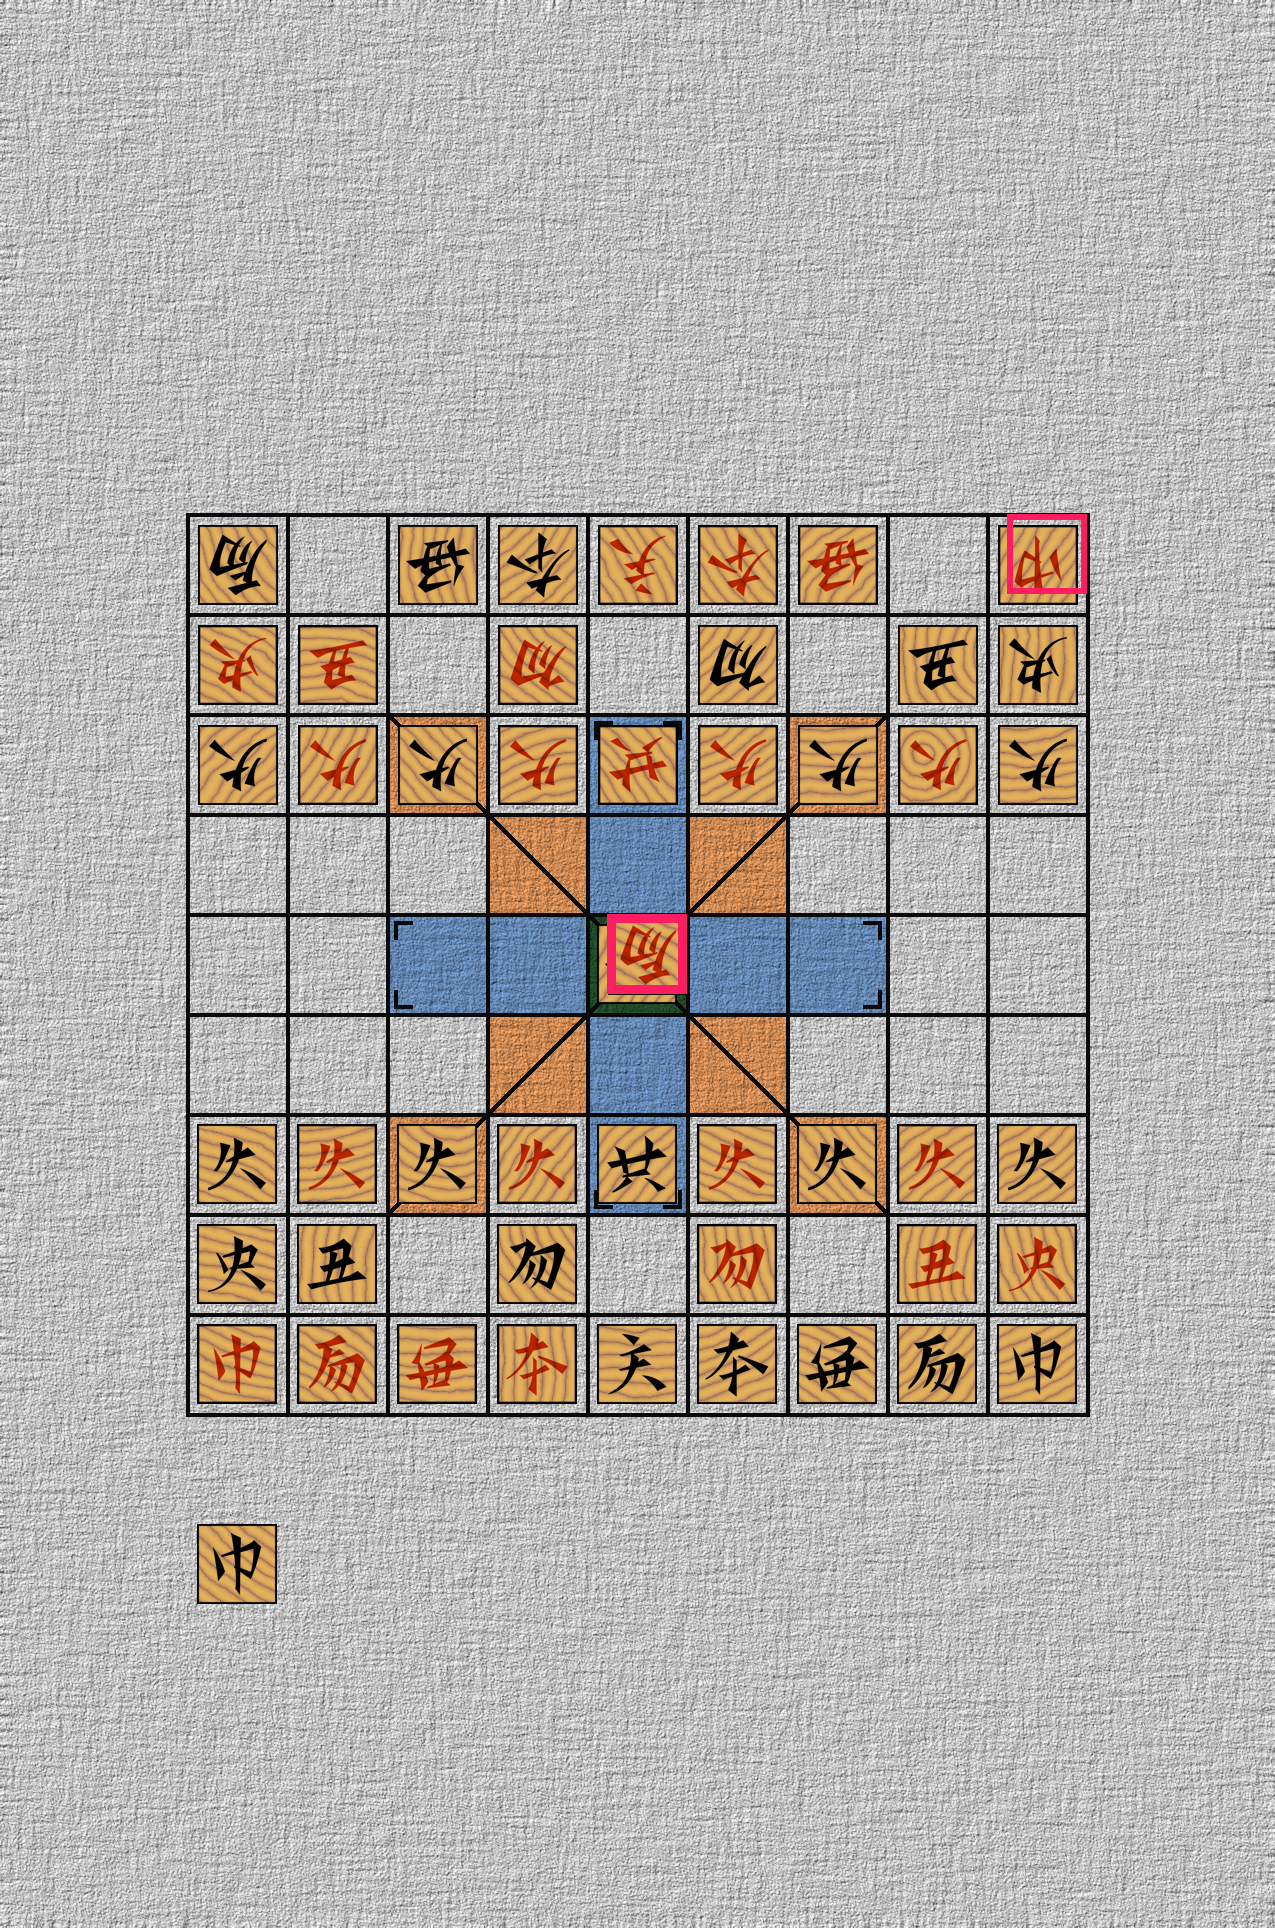
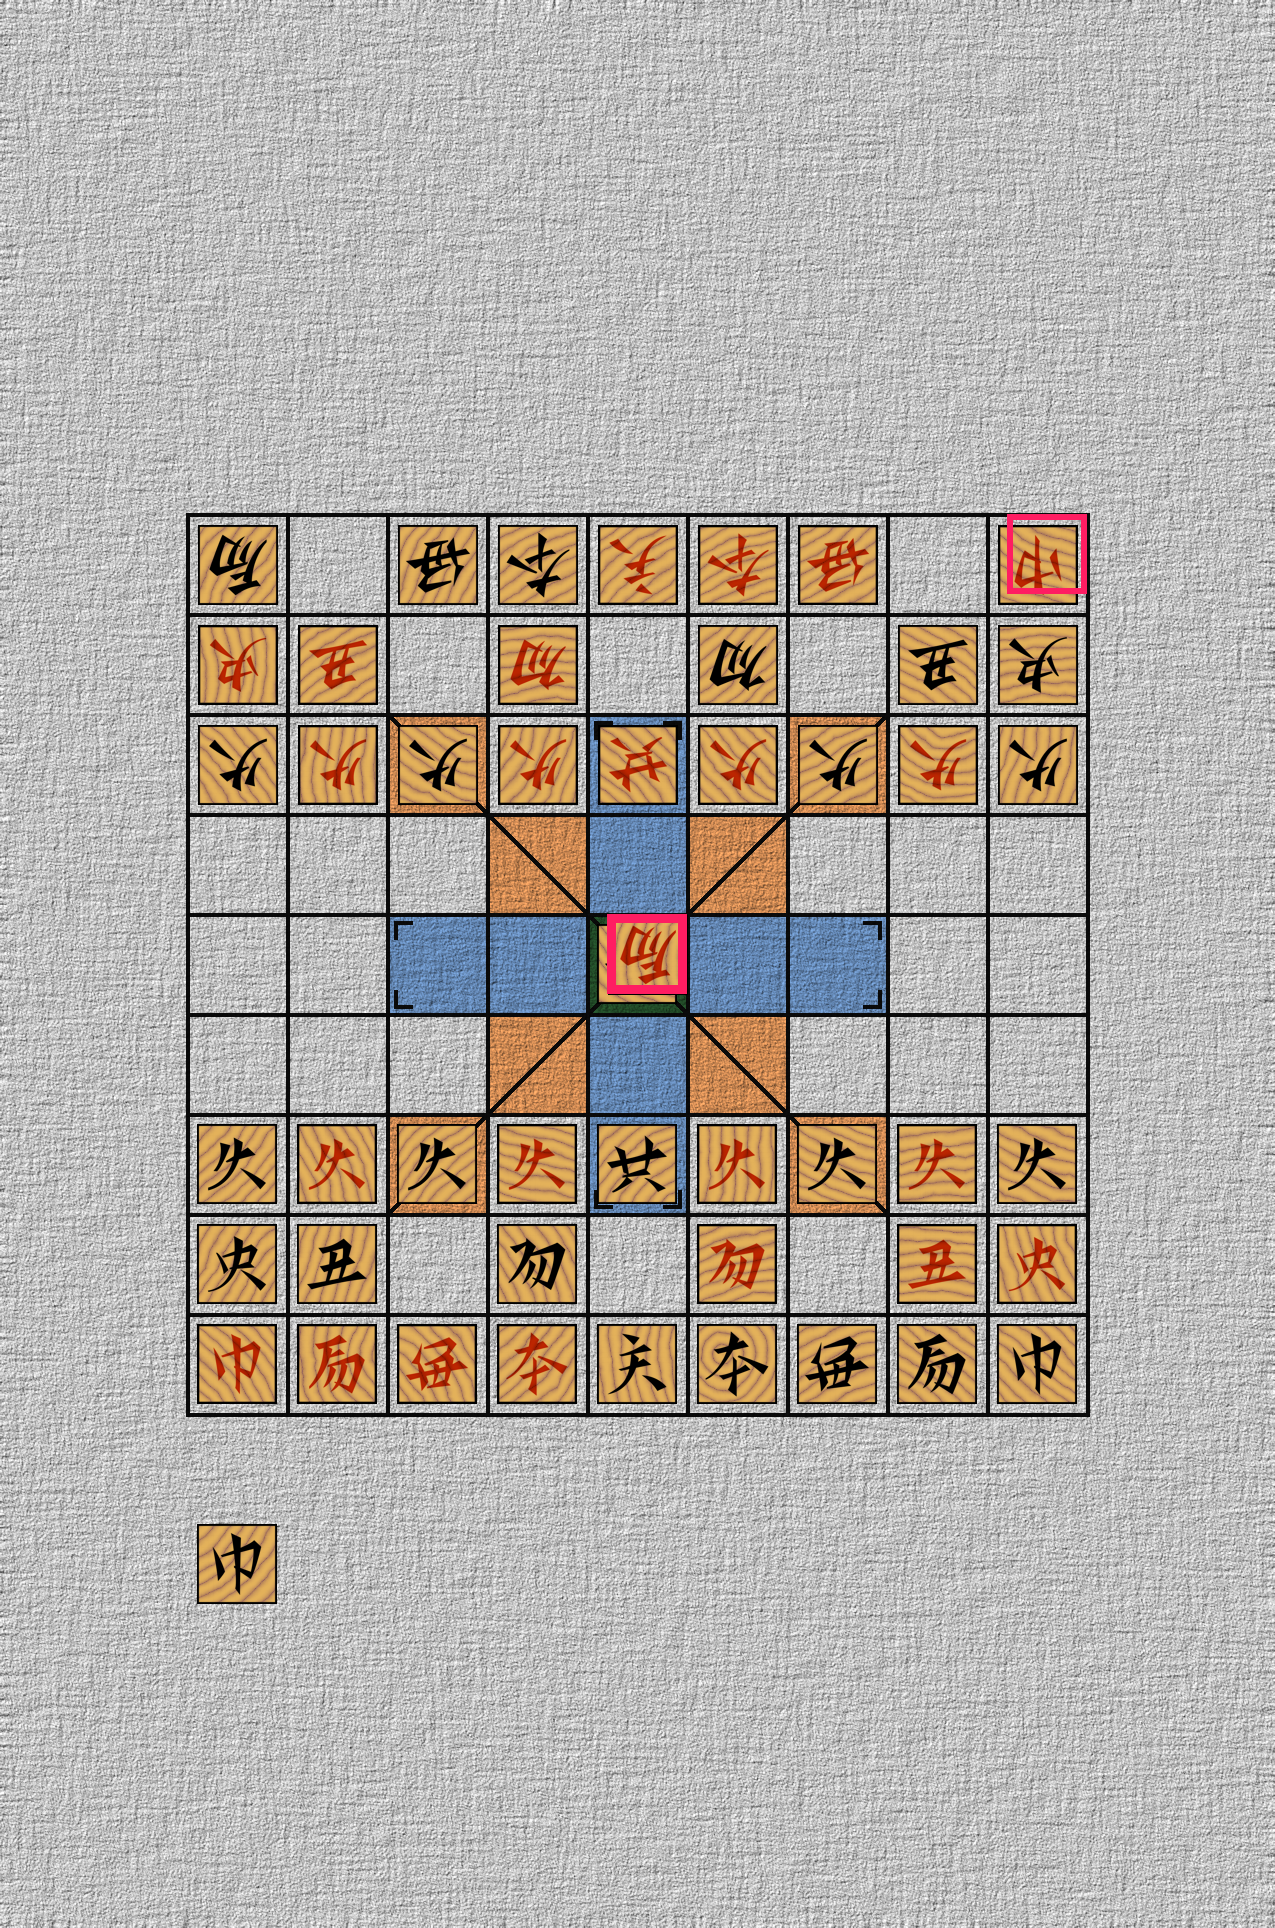
Move from hop1zuo1

diff --git a/src/field/mod.rs b/src/field/mod.rs
@@ -21,11 +21,13 @@ const RDAU: &'static [u8] = include_bytes!("../rdau.png_80x80.png");
 const RIO: &'static [u8] = include_bytes!("../rio.png_80x80.png");
 const RUAI: &'static [u8] = include_bytes!("../ruai.png_80x80.png");
 
+#[derive(PartialEq, Eq, Clone, Copy)]
 pub enum Color {
     Kok1,  // Red, 赤
     Huok2, // Black, 黒
 }
 
+#[derive(PartialEq, Eq, Clone, Copy)]
 pub enum Profession {
     Nuak1, // Vessel, 船, felkana
     Kauk2, // Pawn, 兵, elmer
@@ -183,6 +185,7 @@ pub enum OperationError {
     Tam2ToHop1Zuo1,
     TwoPiecesOnFlight,
     NoPieceOnFlight,
+    NoMatchingColorOrProfession,
 }
 
 fn get_horiz_offset_from_coord(coord: Coord, down_side: Side) -> i32 {
@@ -222,7 +225,11 @@ fn get_vert_offset_from_coord(coord: Coord, down_side: Side) -> i32 {
 }
 
 impl Field {
-    fn put_border_on_sub_image(&self, sub_image: &mut image::SubImage<&mut image::RgbImage>, weight: u32){
+    fn put_border_on_sub_image(
+        &self,
+        sub_image: &mut image::SubImage<&mut image::RgbImage>,
+        weight: u32,
+    ) {
         use crate::image::GenericImage;
         for x in 0..self.piece_dimension {
             for y in 0..self.piece_dimension {
@@ -251,6 +258,51 @@ impl Field {
         self.focus = HashMap::new();
         self.ia_side_focus_index = None;
         self.a_side_focus_index = None;
+    }
+
+    pub fn from_hop1zuo1(
+        &mut self,
+        coord: Coord,
+        side: Side,
+        color: Color,
+        profession: Profession,
+    ) -> Result<(), OperationError> {
+        self.debug_assert_49_piece();
+
+        if self.field.contains_key(&coord) {
+            return Err(OperationError::MovingToNonEmptySquare);
+        }
+
+        self.delete_focus();
+
+        let nontam2piece = if side == Side::ASide {
+            let ind = self
+                .a_side_hand
+                .iter()
+                .position(|p| p.color == color && p.profession == profession)
+                .ok_or(OperationError::NoMatchingColorOrProfession)?;
+
+            self.a_side_focus_index = Some(self.a_side_hand.len() - 1);
+
+            self.a_side_hand.swap_remove(ind)
+        } else {
+            let ind = self
+                .ia_side_hand
+                .iter()
+                .position(|p| p.color == color && p.profession == profession)
+                .ok_or(OperationError::NoMatchingColorOrProfession)?;
+
+            self.ia_side_focus_index = Some(self.ia_side_hand.len() - 1);
+
+            self.ia_side_hand.swap_remove(ind)
+        };
+
+        self.field
+            .insert(coord, PieceOnField::NonTam2(nontam2piece, side));
+        self.focus.insert(coord, false);
+
+        self.debug_assert_49_piece();
+        Ok(())
     }
 
     pub fn to_opponent_hop1zuo1(&mut self, coord: Coord) -> Result<(), OperationError> {
@@ -575,7 +627,9 @@ impl Field {
         for (row, col) in self.focus.keys() {
             let horiz_offset = get_horiz_offset_from_coord((*row, *col), down_side);
             let vert_offset = get_vert_offset_from_coord((*row, *col), down_side);
-            if !self.focus[&(*row, *col)] /* not floating */ {
+            if !self.focus[&(*row, *col)]
+            /* not floating */
+            {
                 let mut sub_image = background.sub_image(
                     ((width / 2 - self.piece_dimension / 2) as i32
                         + self.square_dimension as i32 * horiz_offset) as u32,
@@ -596,7 +650,8 @@ impl Field {
                                 } else {
                                     -1
                                 }
-                            + self.square_dimension as i32 * horiz_offset) as u32,
+                            + self.square_dimension as i32 * horiz_offset)
+                            as u32,
                         ((height / 2 - self.piece_dimension / 2) as i32
                             + (self.square_dimension as i32 - self.piece_dimension as i32) / 2
                                 * if piece.physical_side() == down_side {
@@ -604,7 +659,8 @@ impl Field {
                                 } else {
                                     -1
                                 }
-                            + self.square_dimension as i32 * vert_offset) as u32,
+                            + self.square_dimension as i32 * vert_offset)
+                            as u32,
                         self.piece_dimension,
                         self.piece_dimension,
                     );
@@ -614,7 +670,8 @@ impl Field {
                 let mut sub_image = background.sub_image(
                     ((width / 2 - self.piece_dimension / 2) as i32
                         - (self.square_dimension as i32 - self.piece_dimension as i32) / 2
-                            * if Side::IASide == down_side { /* strictly speaking not accurate, but fine */
+                            * if Side::IASide == down_side {
+                                /* strictly speaking not accurate, but fine */
                                 1
                             } else {
                                 -1
@@ -622,7 +679,8 @@ impl Field {
                         + self.square_dimension as i32 * horiz_offset) as u32,
                     ((height / 2 - self.piece_dimension / 2) as i32
                         + (self.square_dimension as i32 - self.piece_dimension as i32) / 2
-                            * if Side::IASide == down_side { /* strictly speaking not accurate, but fine */
+                            * if Side::IASide == down_side {
+                                /* strictly speaking not accurate, but fine */
                                 1
                             } else {
                                 -1
@@ -634,8 +692,6 @@ impl Field {
                 self.put_border_on_sub_image(&mut sub_image, 6);
             }
         }
-
-        
 
         if let Some(((row, col), piece)) = &self.floating {
             let horiz_offset = get_horiz_offset_from_coord((*row, *col), down_side);

diff --git a/src/main.rs b/src/main.rs
@@ -38,5 +38,17 @@ fn main() -> Result<(), rand_distr::NormalError> {
     field.render(field::Side::IASide).save("a6.png").unwrap();
     field.render(field::Side::ASide).save("b6.png").unwrap();
 
+    field
+        .from_hop1zuo1(
+            (Row::O, Column::M),
+            field::Side::IASide,
+            field::Color::Huok2,
+            field::Profession::Kua2,
+        )
+        .unwrap();
+
+    field.render(field::Side::IASide).save("a7.png").unwrap();
+    field.render(field::Side::ASide).save("b7.png").unwrap();
+
     Ok(())
 }
